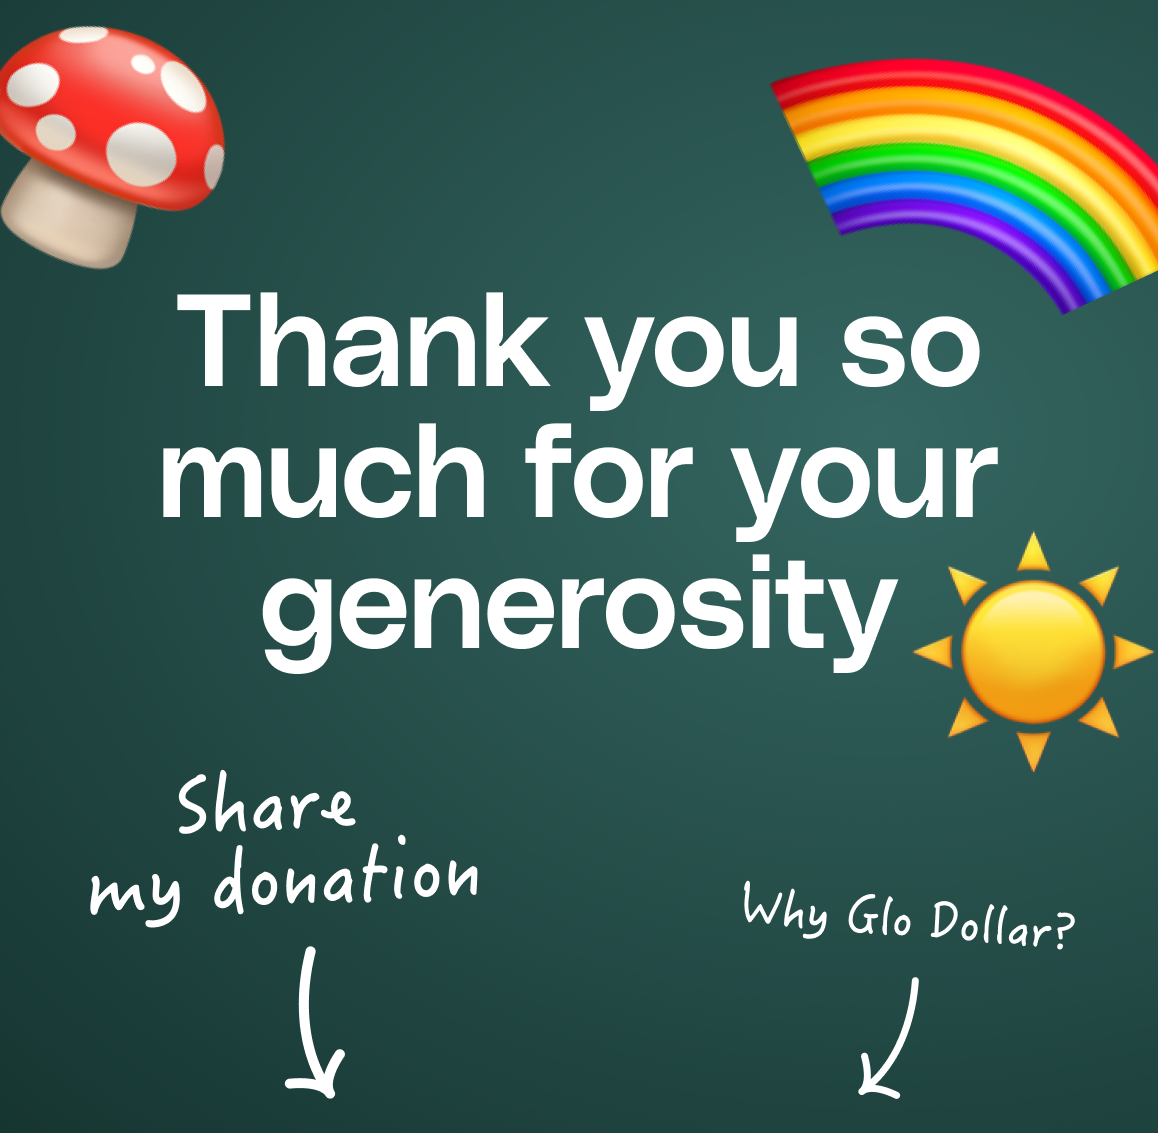
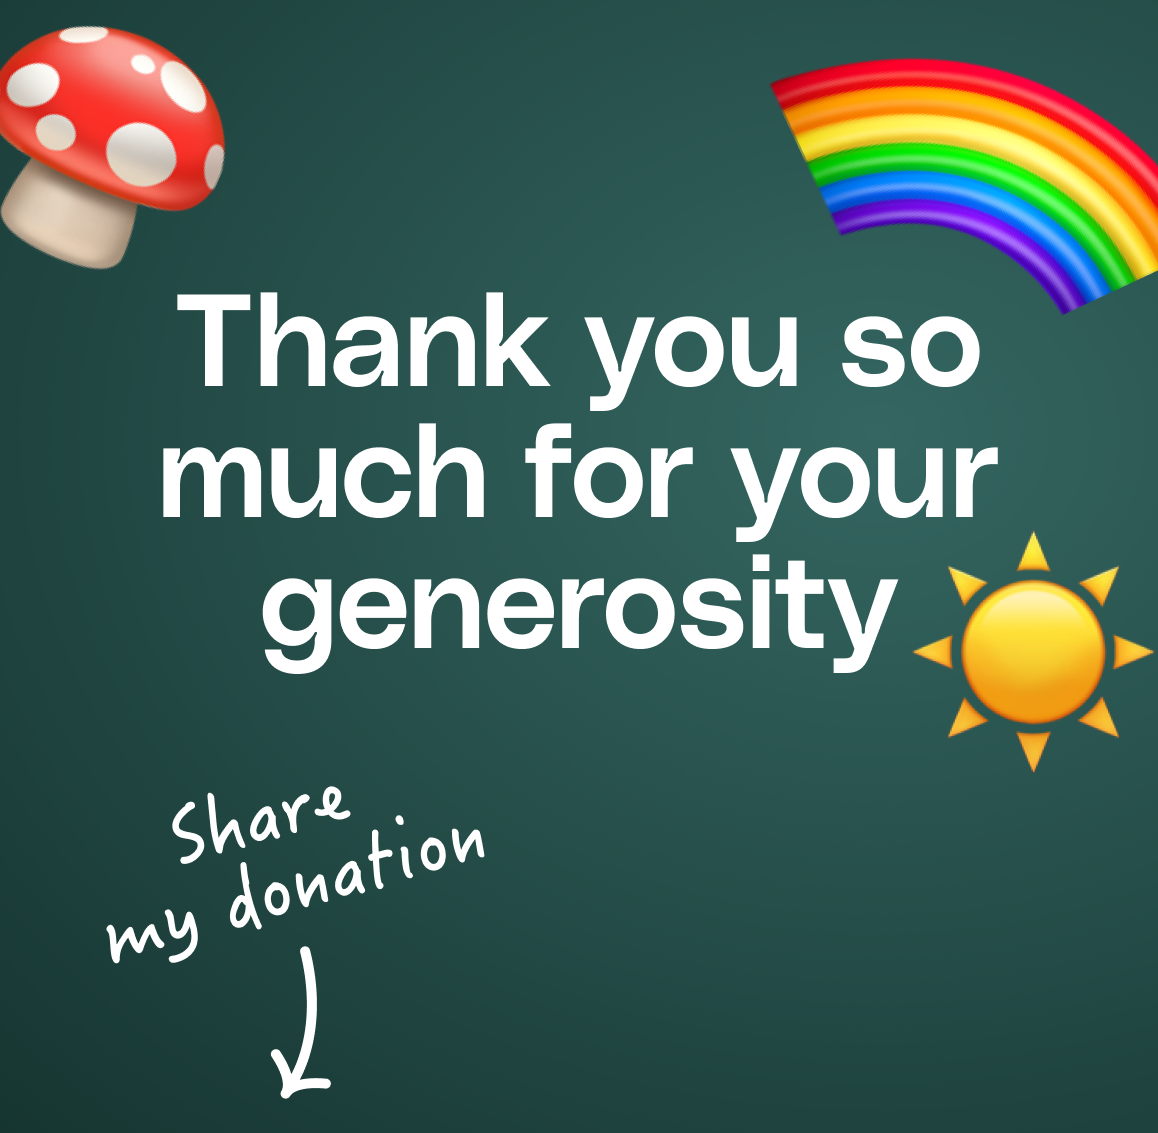
0.2

diff --git a/app/frames/route.tsx b/app/frames/route.tsx
@@ -9,6 +9,8 @@ let topicOfTheDay = TOPICS[0];
 // Cron job, pick charity of the day
 
 let charityOfTheDay: {
+  ein: any;
+  description: any;
   id: string | number | boolean | readonly string[] | readonly number[] | readonly boolean[] | null | undefined; name: any; contractAddress: string;
 };
 
@@ -43,10 +45,13 @@ const searchCharities = async (searchTerm: string, offset: number) => {
     );
     const resp = await rawResp.json();
     const filteredCharities = resp.filter((charity: { deployments: any[]; }) => {
-      const validDeployments = charity.deployments.filter((deployment: { isDeployed: any; }) => deployment.isDeployed);
-      return validDeployments.length === 3;
+      // const validDeployments = charity.deployments.filter((deployment: { isDeployed: any; }) => deployment.isDeployed);
+      // console.log(charity.deployments)
+      // return validDeployments.length === 3;
+      return charity.deployments.length === 3;
     })
     return filteredCharities[0];
+    // return resp[0];
   } catch (error) {
     console.error("Fetch error:", error);
   }
@@ -63,7 +68,7 @@ const getRandomCharity = async () => {
     const randomOffset = Math.floor(Math.random() * 200);
     return await searchCharities(randomChar, randomOffset);
   } catch (error) {
-
+    console.error("Fetch error:", error);
   }
 };
 
@@ -99,9 +104,19 @@ const handleRequest = frames(async (ctx) => {
       if (!charityOfTheDay)
         do {
           charityOfTheDay = await getCharityOfTheDay();
+          console.log('fetching', charityOfTheDay)
         } while (!charityOfTheDay);
-      image = charityOfTheDay.name;
-      newState.address = charityOfTheDay.contractAddress;
+
+      const subDescription = charityOfTheDay.description.substring(0, 300);
+      const i = subDescription.lastIndexOf('. ')
+      const desc = subDescription.substring(0, i !== -1 ? i : 300);
+      image =
+        <div style={{ display: "flex", flexDirection: "column", alignItems: "center", maxWidth: "90%", textAlign: "center" }}>
+          <div style={{ fontSize: 70 }}>Charity of the day</div>
+          <div style={{ fontSize: 48 }}>{charityOfTheDay.name}</div>
+          <div style={{ display: "flex" }}>{String(desc)}{i !== -1 && charityOfTheDay.description.length > 0 ? "..." : ""}</div>
+        </div>
+
       buttons = [
         <Button action="post" target={{ query: { value: 'select-chain', id: charityOfTheDay.id } }}>
           Donate
@@ -109,7 +124,7 @@ const handleRequest = frames(async (ctx) => {
         <Button action="post" target={{ query: { value: 'charity-rand' } }}>
           Show next
         </Button>,
-        <Button action="link" target="https://app.endaoment.org/">
+        <Button action="link" target={`https://app.endaoment.org/orgs/${charityOfTheDay.ein}`}>
           Learn more
         </Button>,
       ]
@@ -123,19 +138,28 @@ const handleRequest = frames(async (ctx) => {
         do {
           randomCharity = await getRandomCharity();
         } while (!randomCharity);
-        newState.address = randomCharity.contractAddress;
         newState.randomCharities[ctx.state.randCount] = randomCharity.id;
       }
-      image = (await getCharity(newState.randomCharities[ctx.state.randCount % 3])).name;
-      console.log(image)
+
+      const charityToShow = await getCharity(newState.randomCharities[ctx.state.randCount % 3])
+      const subDesc = charityToShow.description.substring(0, 300);
+      const index = subDesc.lastIndexOf('. ')
+      const description = subDesc.substring(0, index !== -1 ? index : 300);
+
+      image =
+        <div style={{ display: "flex", flexDirection: "column", alignItems: "center", maxWidth: "90%", textAlign: "center" }}>
+          <div style={{ fontSize: 48 }}>{charityToShow.name}</div>
+          <div style={{ display: "flex" }}>{String(description)}{index !== -1 && charityToShow.description.length > 0 ? "..." : ""}</div>
+        </div>
+
       buttons = [
         <Button action="post" target={{ query: { value: "select-chain", id: newState.randomCharities[ctx.state.randCount % 3] } }}>
           Donate
         </Button>,
-        <Button action="post" target={{ query: { value: "charity-rand" } }}>
+        <Button action="post" target={{ query: { value: ctx.state.randCount % 3 === 2 ? "charity-otd" : "charity-rand" } }}>
           Show next
         </Button>,
-        <Button action="link" target="https://app.endaoment.org/">
+        <Button action="link" target={`https://app.endaoment.org/orgs/${charityToShow.ein}`}>
           Learn more
         </Button>,
       ];
@@ -144,24 +168,29 @@ const handleRequest = frames(async (ctx) => {
     case "select-chain":
       realImage = `https://glo-dollars-mvp.vercel.app/chain.png`
       const charity = await getCharity(ctx.searchParams.id);
+      console.log(charity)
       buttons = [
+        <Button action="post" target={{ query: { value: 'select-amount', chainId: 8453, address: (charity.deployments.find((d: { chainId: number; }) => d.chainId === 8453)).address } }}>
+          Base
+        </Button>,
         <Button action="post" target={{ query: { value: 'select-amount', chainId: 1, address: (charity.deployments.find((d: { chainId: number; }) => d.chainId === 1)).address } }}>
           Ethereum
         </Button>,
         <Button action="post" target={{ query: { value: 'select-amount', chainId: 10, address: (charity.deployments.find((d: { chainId: number; }) => d.chainId === 10)).address } }}>
           Optimism
         </Button>,
-        <Button action="post" target={{ query: { value: 'select-amount', chainId: 8453, address: (charity.deployments.find((d: { chainId: number; }) => d.chainId === 8453)).address } }}>
-          Base
-        </Button>,
-        <Button action="post" target={{ query: { value: "charity-rand" } }}>
-          Select a random charity instead
+        <Button action="link" target="https://app.uniswap.org/swap?outputCurrency=0x4F604735c1cF31399C6E711D5962b2B3E0225AD3">
+          Get USDGLO
         </Button>,
       ];
       break;
 
     case "select-amount":
-      image = "Select the amount of USDGLO you want to donate";
+      image =
+        <div style={{ display: "flex", flexDirection: "column", alignItems: "center", maxWidth: "90%", textAlign: "center" }}>
+          <div style={{ fontSize: 48 }}>Select the amount of USDGLO you want to donate</div>
+          <div>1 USDGLO equals the value of 1 US dollar.</div>
+        </div>
       const { chainId, address, } = ctx.searchParams
       buttons = [
         <Button action="tx" target={{ pathname: "txdata", query: { chainId, address, amount: 1 } }} post_url="/final">
@@ -181,9 +210,9 @@ const handleRequest = frames(async (ctx) => {
       realImage = `https://glo-dollars-mvp.vercel.app/start.png`
       buttons = [
         <Button action="post" target={{ query: { value: "charity-otd" } }}>
-          Donate
+          Show me!
         </Button>,
-        <Button action="link" target="https://docs.google.com/document/d/1HE6Jvgrw43o37PM2SAEQiGGF7uFOr84Qrz5bvLaEO9Y">
+        <Button action="link" target="https://docs.google.com/document/d/1T05i0W1-VPEvs72480eO2-RGyx4GAPI_2DheaoLCy7Y">
           How it works
         </Button>,
       ];
@@ -194,6 +223,9 @@ const handleRequest = frames(async (ctx) => {
     image: realImage ?? <span style={{
       backgroundColor: "#EAF4F3", width: "100%", height: "100%", display: "flex", justifyContent: "center", alignItems: "center"
     }}>{image}</span>,
+    imageOptions: {
+      aspectRatio: "1:1",
+    },
     buttons,
     state: newState,
   };

diff --git a/app/frames/final/route.tsx b/app/frames/final/route.tsx
@@ -2,21 +2,29 @@ import { Button } from "frames.js/next";
 import { frames } from "../frames";
 
 const handleRequest = frames(async (ctx) => {
-    const realImage = `https://glo-dollars-mvp.vercel.app/end.png`
-    return {
-        image: realImage,
-        buttons: [
-            <Button action="link" target="https://warpcast.com/~/compose?text=I+just+donated+using+USDGLO.&embeds[]=https://glo-dollars-mvp.vercel.app/frames">
-                Share
-            </Button>,
-            <Button action="link" target="https://www.glodollar.org/articles/how-glo-dollar-works">
-                Why Glo?
-            </Button>,
-            <Button action="link" target="https://warpcast.com/glodollar">
-                Follow @glodollar
-            </Button>
-        ],
-    };
+	const realImage = `https://glo-dollars-mvp.vercel.app/end.png`
+
+	const shareText = `I just made a donation to the charity of the day in Glo Dollars (USDGLO) through this frame made by @glodollar and @pbkompasz. 
+		Feeling generous? 🌈 ☀
+		Donate to the charity of the day ↓`;
+
+	return {
+		image: realImage,
+		imageOptions: {
+			aspectRatio: "1:1",
+		},
+		buttons: [
+			<Button action="link" target={`https://warpcast.com/~/compose?text=${shareText}&embeds[]=https://glo-dollars-mvp.vercel.app/frames`}>
+				Share
+			</Button>,
+			<Button action="link" target="https://www.glodollar.org/articles/how-glo-dollar-works">
+				Why Glo?
+			</Button>,
+			<Button action="link" target="https://warpcast.com/glodollar">
+				Follow Glo
+			</Button>
+		],
+	};
 });
 
 export const GET = handleRequest;

diff --git a/app/frames/frames.ts b/app/frames/frames.ts
@@ -3,7 +3,6 @@ import { createFrames } from "frames.js/next";
 export const frames = createFrames({
   basePath: "/frames",
   initialState: {
-    address: "",
     randCount: 0,
     randomCharities: [] as any[],
   },
